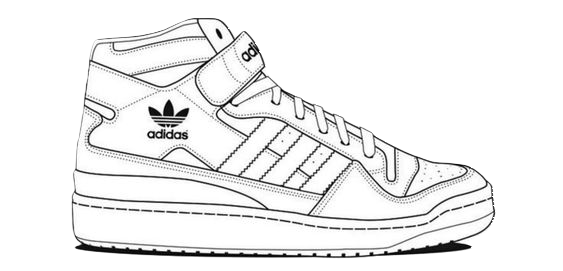
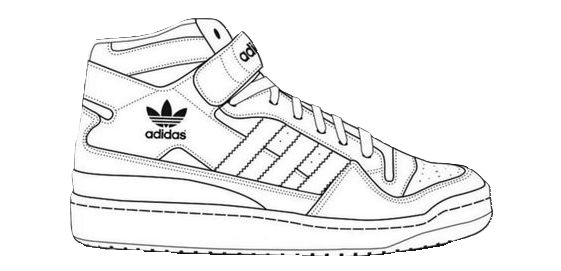
Img recortadas

diff --git a/Views/Register/register.html b/Views/Register/register.html
@@ -12,7 +12,7 @@
 
     <header class="header">
 
-        <a href="#" class="logo">CYO</a>
+        <a href="../../index.html" class="logo">CYO</a>
 
             <div class="main-nav">
                 <a href="#" class="favorites-btn"><i class="bi bi-suit-heart"></i></a>

diff --git a/Views/Sign In/signIn.html b/Views/Sign In/signIn.html
@@ -12,7 +12,7 @@
 
     <header class="header">
 
-        <a href="#" class="logo">CYO</a>
+        <a href="../../index.html" class="logo">CYO</a>
 
             <div class="main-nav">
                 <a href="#" class="favorites-btn"><i class="bi bi-suit-heart"></i></a>

diff --git a/styles.css b/styles.css
@@ -206,6 +206,7 @@ main {
 .logo-img,
 .shoe-img {
     width: 100%;
+    filter: drop-shadow(25px 25px 25px rgba(0, 0, 0, 0.5));
 }
 
 /* Sort, Filters part */
